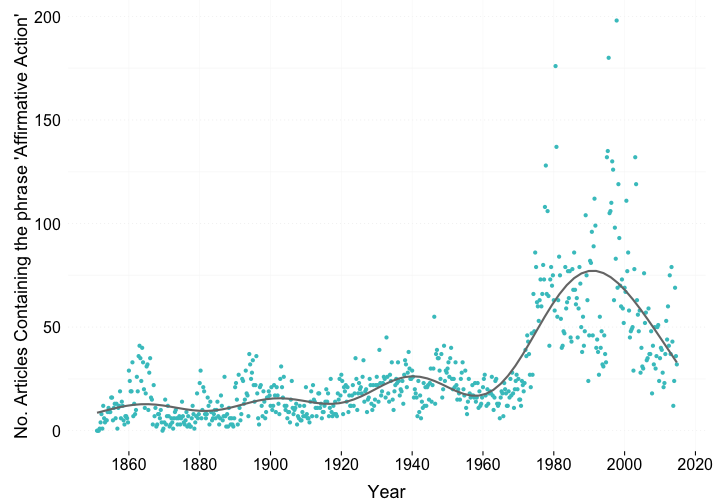
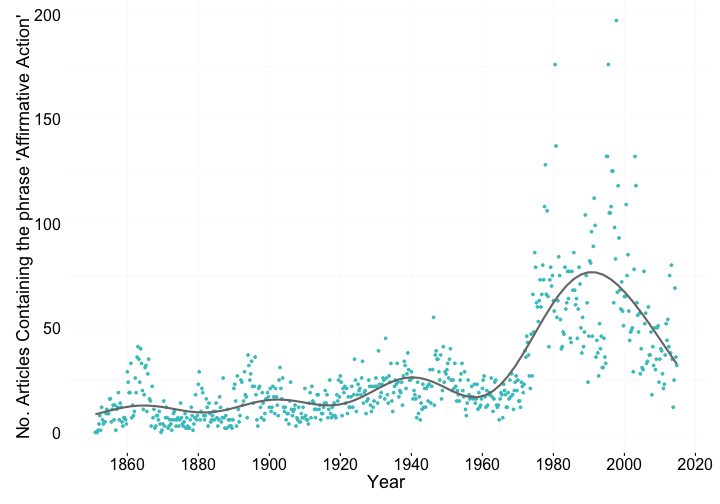
updated vignette

diff --git a/inst/vign/nyt_civil_rights.md b/inst/vign/nyt_civil_rights.md
@@ -9,7 +9,7 @@
 Use case - Civil Rights Coverage in NYT over time
 =================================================
 
-This is an example use of `rtimes` from [Gaurav Soodoku](http://gbytes.gsood.com/). Find the original code [at GitHub](https://github.com/soodoku/nyt-civil-rights). 
+This is an example use of `rtimes` from [Gaurav Soodoku](http://gbytes.gsood.com/). Find the original code [at GitHub](https://github.com/soodoku/nyt-civil-rights).
 
 This example is a smaller subset of the analysis in the original code, just looking at one phrase: _Affirmative Action_
 
@@ -17,8 +17,7 @@ This example is a smaller subset of the analysis in the original code, just look
 
 
 ```r
-install.packages("devtools")
-devtools::install_github("ropengov/rtimes")
+install.packages("rtimes")
 ```
 
 
@@ -48,7 +47,7 @@ Make a data.frame to put data in to
 
 
 ```r
-results <- data.frame(startDate=NA, endDate=NA, afam=NA)
+results <- data.frame(startDate = NA, endDate = NA, afam = NA)
 ```
 
 Loop through dates
@@ -56,9 +55,11 @@ Loop through dates
 
 ```r
 for (i in 1:(length(dates) - 1)) {
+  Sys.sleep(1)
+  cat(i, "\n")
   counts <- NA
-  counts <- as_search(q = "affirmative action", 
-                      begin_date = dates[i], 
+  counts <- as_search(q = "affirmative action",
+                      begin_date = dates[i],
                       end_date = dates[i + 1])$meta[1]
   results[i, ] <- c(dates[i], dates[i + 1], counts)
 }
@@ -87,14 +88,14 @@ Plot mentions of _Affirmative Action_
 
 
 ```r
-ggplot(results, aes(x = startDate, y = cr)) +
-  geom_point(width = 1, color = "#42C4C7") +
-  geom_smooth(method = "gam", formula = y ~ s(x), aes(group = 1), 
+ggplot(results, aes(x = startDate, y = afam)) +
+  geom_point(size = 1, color = "#42C4C7") +
+  geom_smooth(method = "gam", formula = y ~ s(x), aes(group = 1),
               size = 1, colour = "#777777", alpha = 0.05, se = FALSE) +
   ylab("No. Articles Containing the phrase 'Affirmative Action'") +
   xlab("Year") +
   theme_bw() +
-  scale_x_date(breaks = pretty_breaks(n = 10)) + 
+  scale_x_date(breaks = pretty_breaks(n = 10)) +
   theme(panel.grid.major.y = element_line(colour = "#e3e3e3", linetype = "dotted"),
         panel.grid.minor.x = element_blank(),
         panel.grid.major.x = element_line(colour = "#f7f7f7", linetype = "solid"),
